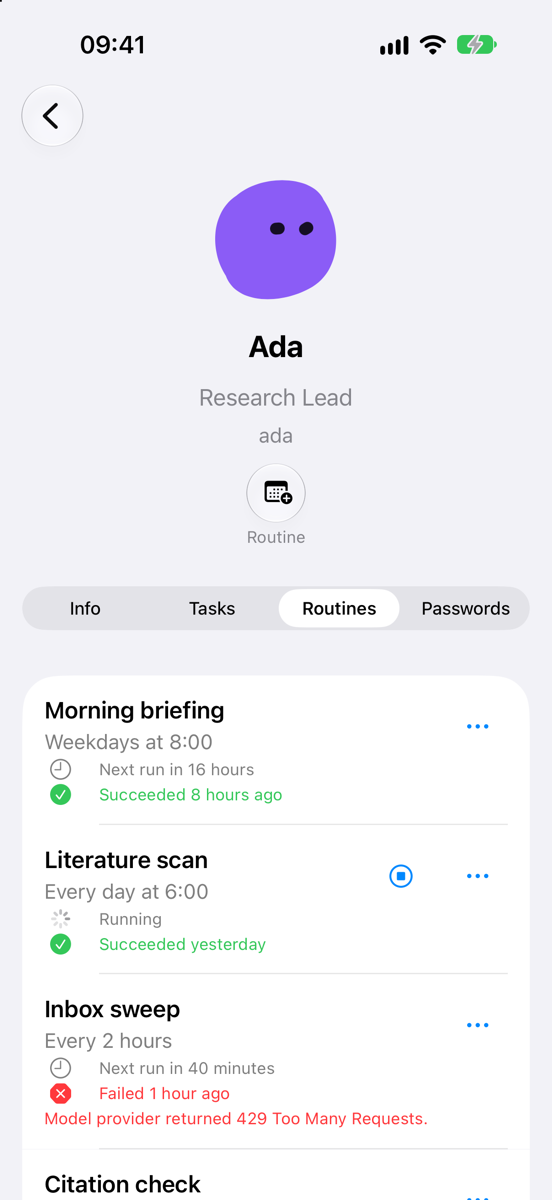
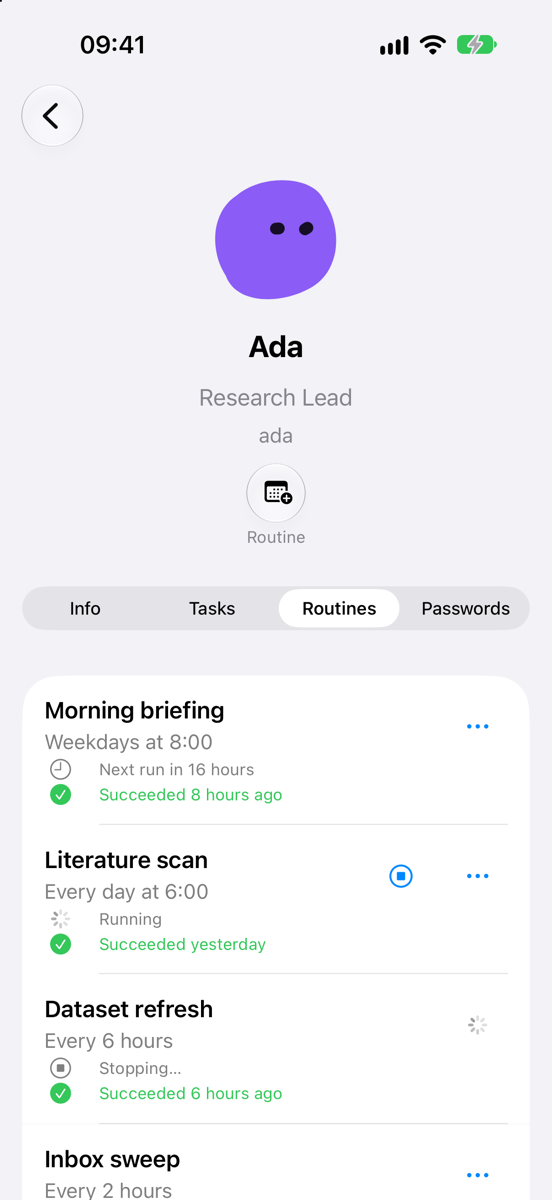
Routines: review fixes for Stop (tap target, stale alerts, older servers, Stopping render)

Changed region(s): [[0.0616, 0.8325, 0.7699, 1.0], [0.8623, 0.8325, 0.8931, 0.8633], [0.0924, 0.74, 0.1232, 0.7708]]

diff --git a/Tests/CrewTests/RoutineStopScenarioTests.swift b/Tests/CrewTests/RoutineStopScenarioTests.swift
@@ -4,42 +4,40 @@ import Testing
 
 nonisolated private let scenario = URL(filePath: #filePath).deletingLastPathComponent().deletingLastPathComponent().appending(path: "fixtures/scenarios/routine-stop")
 
-nonisolated private func recordedJSON(_ name: String) -> [String: Any] {
+nonisolated private func listing(_ name: String, _ edit: (inout [String: Any]) -> Void = { _ in }) -> Data {
     let data = (try? Data(contentsOf: scenario.appending(path: "\(name).json"))) ?? Data()
-    return ((try? JSONSerialization.jsonObject(with: data)) as? [String: Any]) ?? [:]
+    var object = ((try? JSONSerialization.jsonObject(with: data)) as? [String: Any]) ?? [:]
+    edit(&object)
+    return (try? JSONSerialization.data(withJSONObject: [object])) ?? Data()
 }
 
-nonisolated private func listing(_ job: [String: Any]) -> Data {
-    (try? JSONSerialization.data(withJSONObject: [job])) ?? Data()
-}
-
-private func job(_ object: [String: Any]) throws -> RoutineJob {
+private func job(_ listed: Data) throws -> RoutineJob {
     let decoder = JSONDecoder()
     decoder.keyDecodingStrategy = .convertFromSnakeCase
-    return try decoder.decode([RoutineJob].self, from: listing(object))[0]
+    return try decoder.decode([RoutineJob].self, from: listed)[0]
 }
 
-private func missed(finishedAt: String) -> [String: Any] {
-    var object = recordedJSON("jobs.stopped")
-    object["latest_execution"] = [
-        "id": "m1", "status": "missed", "error": "missed ×3 (skipped, catch-up off; next run 2026-11-11T19:58:24+00:00)",
-        "claimed_at": finishedAt, "finished_at": finishedAt, "scheduled_instant": "2026-11-10T17:00:00+00:00",
-    ]
-    return object
+private func missed(finishedAt: String) -> Data {
+    listing("jobs.stopped") {
+        $0["latest_execution"] = [
+            "id": "m1", "status": "missed", "error": "missed ×3 (skipped, catch-up off; next run 2026-11-11T19:58:24+00:00)",
+            "claimed_at": finishedAt, "finished_at": finishedAt, "scheduled_instant": "2026-11-10T17:00:00+00:00",
+        ]
+    }
 }
 
 @Test func recordedRowsShowRunningAndStopped() throws {
-    let idle = try job(recordedJSON("jobs.idle"))
+    let idle = try job(listing("jobs.idle"))
     #expect(idle.tracksRuns)
     #expect(idle.liveRunID == nil)
     #expect(idle.lastRun == nil)
     #expect(idle.schedule == "every 1440m")
     #expect(idle.title == "Long check")
 
-    let running = try job(recordedJSON("jobs.running"))
-    #expect(running.liveRunID == "4ea12cffbe6d4962a7d57412fb1d22a4")
+    let running = try job(listing("jobs.running"))
+    #expect(running.liveRunID == "ae927ca4089b4a0d8025937ce75192a5")
 
-    let stopped = try job(recordedJSON("jobs.stopped"))
+    let stopped = try job(listing("jobs.stopped"))
     #expect(stopped.liveRunID == nil)
     #expect(stopped.lastStatus == "cancelled")
     #expect(stopped.lastRun != nil)
@@ -47,17 +45,17 @@ private func missed(finishedAt: String) -> [String: Any] {
     #expect(stopped.result.text == "Stopped")
     #expect(stopped.result.symbol == "stop.circle")
 
-    let scheduled = try job(recordedJSON("jobs.scheduled"))
+    let scheduled = try job(listing("jobs.scheduled"))
     #expect(scheduled.liveRunID != nil)
     #expect(scheduled.latestRun?.scheduledInstant != nil)
 
-    let pausedWhileRunning = try job(recordedJSON("jobs.paused-running"))
+    let pausedWhileRunning = try job(listing("jobs.paused-running"))
     #expect(pausedWhileRunning.isPaused)
     #expect(pausedWhileRunning.liveRunID != nil)
 }
 
 @Test func aMissNewerThanTheLastRunIsTheResult() throws {
-    let routine = try job(missed(finishedAt: "2026-11-10T20:30:00+00:00"))
+    let routine = try job(missed(finishedAt: "2026-11-10T21:30:00+00:00"))
     #expect(routine.lastStatus == "missed")
     #expect(routine.missedRuns == 3)
     #expect(routine.lastRun == (try Date("2026-11-10T17:00:00+00:00", strategy: .iso8601)))
@@ -66,29 +64,30 @@ private func missed(finishedAt: String) -> [String: Any] {
 }
 
 @Test func aMissBookedDuringTheLastRunDoesNotHideItsResult() throws {
-    let routine = try job(missed(finishedAt: "2026-11-10T19:58:50+00:00"))
+    let routine = try job(missed(finishedAt: "2026-11-10T20:32:10+00:00"))
     #expect(routine.lastStatus == "cancelled")
     #expect(routine.missedRuns == nil)
 }
 
-@Test func aServerWithoutTheLedgerNeverShowsRunning() throws {
-    var object = recordedJSON("jobs.idle")
-    object["live_execution"] = nil
-    object["latest_execution"] = nil
-    #expect(try job(object).tracksRuns == false)
+@Test func aServerWithoutTheLedgerHasNoStop() throws {
+    let routine = try job(listing("jobs.idle") {
+        $0["live_execution"] = nil
+        $0["latest_execution"] = nil
+    })
+    #expect(routine.tracksRuns == false)
 }
 
 @Test func theRestFireErrorObjectIsTheIssue() throws {
-    var object = recordedJSON("jobs.idle")
-    object["last_fire_error"] = ["at": "2026-11-10T19:00:00+00:00", "detail": "scheduled fire could not be forwarded"]
-    #expect(try job(object).issue == "scheduled fire could not be forwarded")
+    let routine = try job(listing("jobs.idle") { $0["last_fire_error"] = ["at": "2026-11-10T19:00:00+00:00", "detail": "scheduled fire could not be forwarded"] })
+    #expect(routine.issue == "scheduled fire could not be forwarded")
 }
 
 nonisolated private struct CronStub: Sendable {
-    var list = listing(recordedJSON("jobs.idle"))
-    var afterCancel = listing(recordedJSON("jobs.stopped"))
-    var cancelReply = Data(#"{"cancelled": true, "execution_id": "4ea12cffbe6d4962a7d57412fb1d22a4", "success": true}"#.utf8)
+    var list = listing("jobs.idle")
+    var afterCancel = listing("jobs.stopped")
+    var cancels = true
     var triggerFails = false
+    var triggerDelay = 0.5
 }
 
 nonisolated private final class CronServer: URLProtocol {
@@ -106,15 +105,14 @@ nonisolated private final class CronServer: URLProtocol {
     override func startLoading() {
         let url = request.url!
         let path = url.path()
-        let (body, fails): (Data, Bool) = CronServer.state.withLock { stub in
+        let (body, fails, delay): (Data, Bool, Double) = CronServer.state.withLock { stub in
             if path.hasSuffix("/cancel") {
-                if String(decoding: stub.cancelReply, as: UTF8.self).contains(#""cancelled": true"#) { stub.list = stub.afterCancel }
-                return (stub.cancelReply, false)
+                if stub.cancels { stub.list = stub.afterCancel }
+                return (Data(#"{"cancelled": \#(stub.cancels), "execution_id": "ae927ca4089b4a0d8025937ce75192a5", "success": true}"#.utf8), false, 0)
             }
-            if path.hasSuffix("/trigger") { return (Data("{}".utf8), stub.triggerFails) }
-            return (stub.list, false)
+            if path.hasSuffix("/trigger") { return (Data("{}".utf8), stub.triggerFails, stub.triggerDelay) }
+            return (stub.list, false, 0)
         }
-        let delay = path.hasSuffix("/trigger") ? 0.5 : 0
         DispatchQueue.global().asyncAfter(deadline: .now() + delay) { [self] in
             if fails {
                 client?.urlProtocol(self, didFailWithError: URLError(.timedOut))
@@ -128,10 +126,10 @@ nonisolated private final class CronServer: URLProtocol {
 }
 
 @Suite(.serialized) struct RoutineStopStoreTests {
+    private let gateway = Gateway(server: URL(string: "https://hermes.example.com")!, urlSession: CronServer.session) { "" }
+
     private func connectedStore(_ stub: CronStub) async throws -> RoutineStore {
         CronServer.state.withLock { $0 = stub }
-        let server = try #require(URL(string: "https://hermes.example.com"))
-        let gateway = Gateway(server: server, urlSession: CronServer.session) { "" }
         let store = RoutineStore()
         Task { await store.run(profile: "crew-test", gateway: gateway, urlSession: CronServer.session) }
         for _ in 0..<100 where !store.isLoaded { try await Task.sleep(for: .milliseconds(20)) }
@@ -147,11 +145,25 @@ nonisolated private final class CronServer: URLProtocol {
         let trigger = Task { await store.trigger(idle) }
         try await Task.sleep(for: .milliseconds(100))
         #expect(store.isRunning(idle))
-        CronServer.state.withLock { $0.list = listing(recordedJSON("jobs.running")) }
+        #expect(!store.inFlight.contains(idle.id))
+        CronServer.state.withLock { $0.list = listing("jobs.running") }
         await trigger.value
 
         #expect(store.alert == nil)
         #expect(store.isRunning(store.jobs[0]))
+    }
+
+    @Test func stopReachesARunWhileRunNowIsStillOpen() async throws {
+        let store = try await connectedStore(CronStub(triggerDelay: 3))
+        let trigger = Task { await store.trigger(store.jobs[0]) }
+        try await Task.sleep(for: .milliseconds(100))
+        CronServer.state.withLock { $0.list = listing("jobs.running") }
+
+        await store.stop(store.jobs[0])
+        #expect(store.alert == nil)
+        #expect(store.jobs[0].result.text == "Stopped")
+        await trigger.value
+        #expect(!store.isRunning(store.jobs[0]))
     }
 
     @Test func aRunNowThatFailsWithNothingRunningShowsTheFailure() async throws {
@@ -161,8 +173,29 @@ nonisolated private final class CronServer: URLProtocol {
         #expect(!store.isRunning(store.jobs[0]))
     }
 
+    @Test func aRunNowLeftBehindByABotSwitchStaysSilent() async throws {
+        let store = try await connectedStore(CronStub(triggerFails: true))
+        let trigger = Task { await store.trigger(store.jobs[0]) }
+        try await Task.sleep(for: .milliseconds(100))
+        Task { await store.run(profile: "crew-test-other", gateway: gateway, urlSession: CronServer.session) }
+        await trigger.value
+        #expect(store.alert == nil)
+    }
+
+    @Test func runNowOnAServerWithoutTheLedgerStillShowsRunning() async throws {
+        let store = try await connectedStore(CronStub(list: listing("jobs.idle") {
+            $0["live_execution"] = nil
+            $0["latest_execution"] = nil
+        }))
+        let trigger = Task { await store.trigger(store.jobs[0]) }
+        try await Task.sleep(for: .milliseconds(100))
+        #expect(store.isRunning(store.jobs[0]))
+        await trigger.value
+        #expect(!store.isRunning(store.jobs[0]))
+    }
+
     @Test func stopSettlesOnTheStoppedRunThenSaysNothingWasRunning() async throws {
-        let store = try await connectedStore(CronStub(list: listing(recordedJSON("jobs.running"))))
+        let store = try await connectedStore(CronStub(list: listing("jobs.running")))
         #expect(store.isRunning(store.jobs[0]))
 
         await store.stop(store.jobs[0])
@@ -171,15 +204,14 @@ nonisolated private final class CronServer: URLProtocol {
         #expect(!store.isRunning(store.jobs[0]))
         #expect(store.stopping.isEmpty && store.inFlight.isEmpty)
 
-        CronServer.state.withLock { $0.cancelReply = (try? Data(contentsOf: scenario.appending(path: "cancel.idle.json"))) ?? Data() }
+        CronServer.state.withLock { $0.cancels = false }
         await store.stop(store.jobs[0])
         #expect(store.alert?.title == "Nothing Was Running")
     }
 
     @Test func stopDoesNotWaitForARunThatStartsRightAfter() async throws {
-        var next = recordedJSON("jobs.running")
-        next["live_execution"] = ["id": "next-run", "status": "running", "claimed_at": "2026-11-10T19:59:01+00:00"]
-        let store = try await connectedStore(CronStub(list: listing(recordedJSON("jobs.running")), afterCancel: listing(next)))
+        let next = listing("jobs.running") { $0["live_execution"] = ["id": "next-run", "status": "running", "claimed_at": "2026-11-10T19:59:01+00:00"] }
+        let store = try await connectedStore(CronStub(list: listing("jobs.running"), afterCancel: next))
         let started = Date.now
         await store.stop(store.jobs[0])
         #expect(Date.now.timeIntervalSince(started) < 5)

diff --git a/Sources/Tasks/RoutineList.swift b/Sources/Tasks/RoutineList.swift
@@ -65,10 +65,11 @@ struct RoutineList: View {
 
     @ViewBuilder
     private func actions(_ job: RoutineJob) -> some View {
-        if store.isRunning(job) {
+        if store.isRunning(job), job.tracksRuns {
             Button("Stop", systemImage: "stop.circle") { Task { await store.stop(job) } }
         } else {
             Button("Run Now", systemImage: "play") { Task { await store.trigger(job) } }
+                .disabled(store.isRunning(job))
         }
         Button(job.isPaused ? "Resume" : "Pause", systemImage: job.isPaused ? "play.circle" : "pause.circle") {
             Task { await store.toggle(job) }
@@ -112,7 +113,7 @@ private struct RoutineRow<Actions: View>: View {
                     .font(.subheadline)
                     .foregroundStyle(.secondary)
                 if isStopping {
-                    Text("Stopping…")
+                    Label("Stopping…", systemImage: "stop.circle")
                         .font(.caption)
                         .foregroundStyle(.secondary)
                 } else if isRunning {
@@ -157,12 +158,14 @@ private struct RoutineRow<Actions: View>: View {
                     .controlSize(.small)
                     .frame(width: actionSize, height: actionSize)
             } else {
-                if isRunning {
-                    Button("Stop", systemImage: "stop.circle", action: onStop)
-                        .labelStyle(.iconOnly)
-                        .frame(width: actionSize, height: actionSize)
-                        .contentShape(.rect)
-                        .buttonStyle(.borderless)
+                if isRunning, job.tracksRuns {
+                    Button(action: onStop) {
+                        Label("Stop", systemImage: "stop.circle")
+                            .labelStyle(.iconOnly)
+                            .frame(width: actionSize, height: actionSize)
+                            .contentShape(.rect)
+                    }
+                    .buttonStyle(.borderless)
                 }
                 Menu {
                     actions

diff --git a/Sources/Inspector/InspectorSnapshots.swift b/Sources/Inspector/InspectorSnapshots.swift
@@ -35,6 +35,11 @@ struct InspectorFixtureScreen: View {
             lastStatus: "ok", issue: nil, isPaused: false, liveRunID: "e4", tracksRuns: true
         ),
         RoutineJob(
+            id: "a7", name: "[bot:ada] Dataset refresh", title: "Dataset refresh", prompt: "Refresh the datasets.",
+            schedule: "every 360m", nextRun: .now.addingTimeInterval(5 * 3600), lastRun: .now.addingTimeInterval(-6 * 3600),
+            lastStatus: "ok", issue: nil, isPaused: false, liveRunID: "e7", tracksRuns: true
+        ),
+        RoutineJob(
             id: "a2", name: "[bot:ada] Inbox sweep", title: "Inbox sweep", prompt: "Triage the inbox.",
             schedule: "every 120m", nextRun: .now.addingTimeInterval(40 * 60), lastRun: .now.addingTimeInterval(-80 * 60),
             lastStatus: "error", issue: "Model provider returned 429 Too Many Requests.", isPaused: false
@@ -170,7 +175,7 @@ struct InspectorFixtureScreen: View {
 
     private var botInspector: some View {
         BotInspector(
-            bot: ada, tab: tab, routines: RoutineStore(fixture: snapshot == .inspectorRoutinesEmpty ? [] : routines), draft: Snapshot.profileDraft, conversations: conversations, shops: shops, vault: vault, connections: connections, models: Snapshot.profileModels,
+            bot: ada, tab: tab, routines: RoutineStore(fixture: snapshot == .inspectorRoutinesEmpty ? [] : routines, stopping: ["a7"]), draft: Snapshot.profileDraft, conversations: conversations, shops: shops, vault: vault, connections: connections, models: Snapshot.profileModels,
             isPresented: .constant(true)
         )
             .environment(ChatSessions(fixture: [ada.id: ChatSession(fixture: ada, transcript: Transcript(), todos: adaTodos)]))

diff --git a/Sources/Tasks/Routines.swift b/Sources/Tasks/Routines.swift
@@ -171,7 +171,7 @@ final class RoutineStore {
 
     func isRunning(_ job: RoutineJob) -> Bool {
         if job.liveRunID != nil { return true }
-        guard job.tracksRuns, let tapped = triggers[job.id] else { return false }
+        guard let tapped = triggers[job.id] else { return false }
         return !(job.latestRun?.claimedAt.map { $0 >= tapped.addingTimeInterval(-2) } ?? false)
     }
 
@@ -210,9 +210,15 @@ final class RoutineStore {
         guard !inFlight.contains(job.id) else { return }
         stopping.insert(job.id)
         await perform(job) { context in
-            let reply = try await fetch(context.request("/\(job.id)/cancel", post: true), with: context.urlSession, as: CancelReply.self)
+            let cancel = context.request("/\(job.id)/cancel", post: true)
+            var reply = try await fetch(cancel, with: context.urlSession, as: CancelReply.self)
+            if !reply.cancelled, self.triggers[job.id] != nil, (try? await Task.sleep(for: .seconds(1))) != nil {
+                reply = try await fetch(cancel, with: context.urlSession, as: CancelReply.self)
+            }
             guard reply.cancelled else {
-                self.alert = RoutineAlert(title: String(localized: "Nothing Was Running"), message: String(localized: "\(job.title) had already finished."))
+                if self.context?.profile == context.profile {
+                    self.alert = RoutineAlert(title: String(localized: "Nothing Was Running"), message: String(localized: "\(job.title) had already finished."))
+                }
                 return
             }
             for _ in 0..<30 {

diff --git a/Tests/routine_probe/main.swift b/Tests/routine_probe/main.swift
@@ -139,7 +139,7 @@ if !cleanupOnly {
         if let stopped { await store.stop(stopped) }
         check(store.alert?.title == "Nothing Was Running", "second Stop says Nothing Was Running")
         store.alert = nil
-        try save("cancel.idle", try await fetch(cron("/\(id)/cancel", method: "POST"), with: urlSession, as: JSONValue.self).asTrimmed)
+        try save("cancel.idle", trimmed(try await fetch(cron("/\(id)/cancel", method: "POST"), with: urlSession, as: JSONValue.self), to: ["cancelled", "detail", "execution_id", "job_id", "success", "status"]))
     } catch {
         check(false, "run and stop flow threw \(error)")
     }
@@ -180,9 +180,3 @@ for session in (try? await probeRunSessions()) ?? [] {
 }
 log(failures.isEmpty ? "ALL OK" : "FAILURES: \(failures.joined(separator: "; "))")
 exit(failures.isEmpty ? 0 : 1)
-
-extension JSONValue {
-    var asTrimmed: JSONValue {
-        trimmed(self, to: ["cancelled", "detail", "execution_id", "job_id", "success", "status"])
-    }
-}

diff --git a/docs/flows/routine-stop.md b/docs/flows/routine-stop.md
@@ -6,7 +6,7 @@ Hermes 0.23.0 stops a live cron run: `POST /api/cron/jobs/{id}/cancel?profile=` 
 
 - `cron.manage list` (today's socket list) formats jobs with `_format_job`, which drops the execution ledger. Only REST `GET /api/cron/jobs?profile=<name>` carries each job's `latest_execution` (newest attempt: `id`, `status`, `error`, `claimed_at`, `finished_at`, `scheduled_instant`) and `live_execution` (the newest `claimed`/`running` attempt under a live owner; present as `null` when idle). So the Routines list moves to that REST call, which reads the profile's own store, so the `[bot:<name>]` filter and `scoped` check go (the REST list has taken `?profile=` since multi-profile cron, which Run Now already relies on). Mutations (add, pause, resume, remove) stay on `cron.manage`. The REST row names the id `id`, has the full `prompt`, `schedule_display` beside a `schedule` object, and `last_fire_error` as `{at, detail}`.
 - Running: `live_execution` is present. While Crew's own Run Now request is open, the row also counts as running until the list shows an attempt claimed since the tap (2 s slack) that has finished, as Hermes Desktop does (`run-control.ts` `jobRunLive`), so a dropped request cannot hold Running.
-- A server without the `live_execution` key (before 0.23) never shows Running or Stop; Run Now works as today, without the busy spinner.
+- A server without the `live_execution` key (before 0.23) shows Running only while Crew's own Run Now is open (Run Now disabled meanwhile) and never offers Stop.
 - Last result: the newest attempt when it is `missed` and finished after `last_run_at` (a miss booked during a long run must not hide that run's result), otherwise `last_status` at `last_run_at` as today.
 
 ## Run Now blocks for the whole run
@@ -23,8 +23,8 @@ Hermes 0.23.0 stops a live cron run: `POST /api/cron/jobs/{id}/cancel?profile=` 
 
 - Running row: a caption line "Running" with a small system progress indicator, in place of the "Next run" line, secondary colour. The last-result line below stays (it describes the previous run).
 - Stop: while the row is running, a borderless `stop.circle` button labelled Stop sits in the trailing slot before the ellipsis (the place Files and the App Store put the stop on a progress ring; HIG Progress Indicators: offer cancel next to the progress), and both the ellipsis menu and the context menu show Stop (`stop.circle`) in Run Now's place, as Shortcuts swaps play for stop while a shortcut runs. Leading swipe stays Pause/Resume. No confirmation: stopping is safe and the schedule is unchanged.
-- After Stop: the row's busy spinner replaces the trailing buttons (as for every row action) and the caption reads "Stopping…" without its own indicator, until the list no longer lists that execution (`live_execution.id` differs from the reply's `execution_id`, so a run that starts right after does not keep it). Crew reloads every second for that, at most 30 s; after the cap the spinner clears, the row stays Running and Stop is offered again.
-- Nothing was running (`cancelled: false`, the run ended between the last refresh and the tap, for example a scheduler run): an alert "Nothing Was Running", message "<title> had already finished.", OK; the list reloads to show the real result. Not framed as a failure.
+- After Stop: the row's busy spinner replaces the trailing buttons (as for every row action) and the caption reads "Stopping…" with `stop.circle` (no second progress indicator), until the list no longer lists that execution (`live_execution.id` differs from the reply's `execution_id`, so a run that starts right after does not keep it). Crew reloads every second for that, at most 30 s; after the cap the spinner clears, the row stays Running and Stop is offered again.
+- Nothing was running (`cancelled: false`, the run ended between the last refresh and the tap, for example a scheduler run): an alert "Nothing Was Running", message "<title> had already finished.", OK; the list reloads to show the real result. Not framed as a failure. While Crew's own Run Now is still open, a `cancelled: false` means the Stop beat the server's claim, so it is retried once a second later before the alert.
 - Stopped (`last_status` `cancelled`): last-result line "Stopped <relative time>", `stop.circle`, secondary colour, matching a stopped chat turn (`ChatView` "Stopped"). No reason line: every real reason is Hermes' raw `cancelled on request (…)`, which repeats the label.
 - Missed: last-result line "Missed N runs <relative time>" (N from `×N`, time from `scheduled_instant`, else `finished_at`), `calendar.badge.exclamationmark`, orange (attention, like Delivery failed). The parenthesised detail is dropped: the next run is already on the Next run line.
 - Other results, the `issue` line (red) and paused styling are unchanged.
@@ -53,7 +53,7 @@ Crew has no per-routine run list. The row's last-result line is the history surf
 
 ## Verification
 
-- Unit: `RoutineStopScenarioTests` decodes the recorded REST rows (idle, running, stopped, a scheduler-started run, the two cancel replies) and a missed row built from the source contract, and asserts each row's running state, label, symbol and time; the store tests run Run Now and Stop through a stubbed `URLProtocol` (Stop reachable while the trigger is open, no alert when the trigger fails while live, "Nothing Was Running" on `cancelled: false`, a Stop that settles on its own execution).
+- Unit: `RoutineStopScenarioTests` decodes the recorded REST rows (idle, running, stopped, a scheduler-started run, paused while running, the idle cancel reply) and a missed row built from the source contract, and asserts each row's running state, label, symbol and time; the store tests run Run Now and Stop through a stubbed `URLProtocol` (Stop reachable while the trigger is open and the trigger outside the busy state, a Run Now dropped silently after a bot switch, Running on a server without the ledger, no alert when the trigger fails while live, "Nothing Was Running" on `cancelled: false`, a Stop that settles on its own execution).
 - Real server: `Tests/routine_probe/run.sh` drives `RoutineStore` on `crew-test` with the app's 10 s session: Run Now, Running, Stop, Stopped, a second Stop answering `cancelled: false`; then an every-minute routine the scheduler starts on its own, Paused while running (still live), and Delete while running. It removes the routines and their run sessions and records the fixtures.
 - Missed is not reproducible on the real server without stopping it, so its row is synthesized from the source contract.
 - Renders: `inspector-routines` on iOS and Mac, light and dark, with a running, a stopped and a missed routine: `docs/flows/renders/routine-stop-*.png` (the iPhone frame ends at the running row; the Mac frame shows all rows).

diff --git a/Tests/README.md b/Tests/README.md
@@ -28,7 +28,7 @@ A scenario is one real flow recorded once from the server into `Tests/fixtures/s
    `Tests/chat_probe/run.sh fresh` records `new-bot-chat` (a throwaway's first Bot Chat, with its runtime reaped before the first prompt) and needs no `crew-test`.
    `Tests/chat_probe/run.sh cold-open` records `cold-open` (a throwaway's CLI-style Bot Chat, reaped, then opened and prompted at once, catching `starting` in `session.active_list`) and needs no `crew-test`.
    `Tests/chat_probe/run.sh routine` records `routine-delivery` (one `deliver: "bot-chat"` routine run on a throwaway whose Bot Chat the delivery creates; it pushes to your devices, so run it once) and needs no `crew-test`.
-   `Tests/routine_probe/run.sh` records `routine-stop` (Run Now, Stop and a scheduler-started run on `crew-test`, driven through `RoutineStore` with the app's 10 s session, about 2 min; `cancel.live.json` is from an earlier recording) and removes its routines and their run sessions; `--cleanup <job id>...` only cleans up.
+   `Tests/routine_probe/run.sh` records `routine-stop` (Run Now, Stop and a scheduler-started run on `crew-test`, driven through `RoutineStore` with the app's 10 s session, about 2 min) and removes its routines and their run sessions; `--cleanup <job id>...` only cleans up.
 3. Read the files before committing: no other profile (except read-only captures of a real bug, trimmed and with names replaced), no credentials, and the flow did what you meant (a failed delivery or an `ambiguous` `message_agent` result means record again).
 
 ### Add the tests
